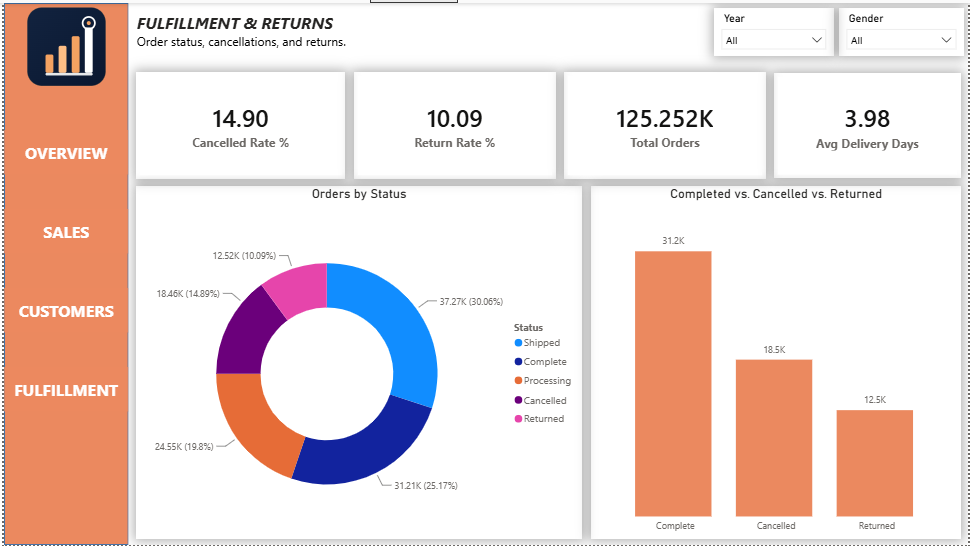
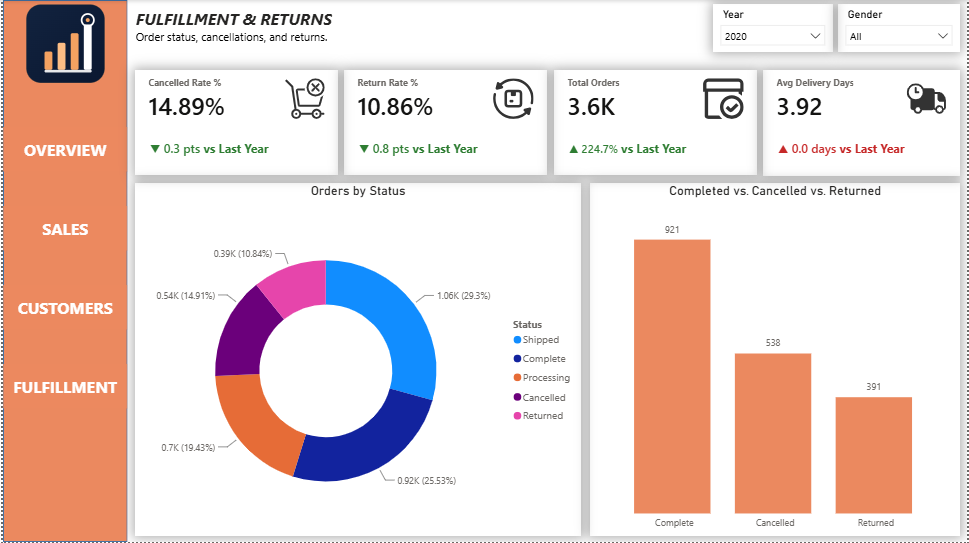
updated project

diff --git a/02_thelook_ecommerce_sql_powerbi/README.md b/02_thelook_ecommerce_sql_powerbi/README.md
@@ -3,6 +3,7 @@
 A four-page Power BI dashboard and SQL analysis built on Google BigQuery's public `thelook_ecommerce` dataset (125K+ orders, 100K+ users), answering key business questions on revenue, profitability, fulfillment, and customer behavior.
 
 [View on Google Drive](https://drive.google.com/drive/folders/1uaCvZnnfB8ZIu-9xPcC3c7-zOqqk12zW?usp=sharing)
+
 ---
 
 ## Project Overview
@@ -10,7 +11,7 @@ A four-page Power BI dashboard and SQL analysis built on Google BigQuery's publi
 TheLook Ecommerce is a synthetic but realistic e-commerce dataset maintained by Google, covering orders, order line items, products, and users across a global customer base. This project explores the dataset in two stages:
 
 1. **SQL exploration & business-question analysis** directly in BigQuery
-2. **A four-page Power BI dashboard** (Overview, Sales & Product Performance, Customer & Demographics, Fulfillment & Returns) built on top of the same data, with a star-schema model and 12 DAX measures
+2. **A four-page Power BI dashboard** (Overview, Sales & Product Performance, Customer & Demographics, Fulfillment & Returns) built on top of the same data, with a star-schema model and 48 DAX measures — 12 core KPIs plus 36 supporting year-over-year trend measures (reference labels on every KPI card)
 
 ---
 
@@ -89,7 +90,11 @@ users (1) ──< orders (1) ──< order_items (*) >── (1) products
 
 ## DAX Measures
 
-12 measures organized into 3 display folders under `_Measures`.
+48 measures organized into 4 display folders under `_Measures`: **Sales**, **Fulfillment**, **Customers**, and **Trend** (year-over-year comparison measures powering the reference labels on every KPI card).
+
+All rate-based measures (`Cancelled Rate %`, `Return Rate %`, `Profit Margin %`, `Repeat Purchase Rate`) return raw 0–1 decimals and use Power BI's built-in **Percentage** number format rather than a manual `* 100` — kept consistent across the model so no measure mixes both conventions.
+
+Year filtering throughout the Trend folder uses Power BI's built-in date hierarchy (`orders[created_at].[Year]`) rather than a separate calculated Year column, since the report's Year slicer is already built on that same hierarchy.
 
 ### 📁 Sales
 ```dax
@@ -105,14 +110,14 @@ Profit Margin % =
 DIVIDE(
     [Total Revenue] - SUMX(order_items, RELATED(products[cost])),
     [Total Revenue]
-) * 100
+)
 ```
 
 ### 📁 Fulfillment
 ```dax
-Cancelled Rate % = DIVIDE(COUNTROWS(FILTER(orders, orders[status] = "Cancelled")), [Total Orders]) * 100
+Cancelled Rate % = DIVIDE(COUNTROWS(FILTER(orders, orders[status] = "Cancelled")), [Total Orders])
 
-Return Rate % = DIVIDE(COUNTROWS(FILTER(orders, orders[status] = "Returned")), [Total Orders]) * 100
+Return Rate % = DIVIDE(COUNTROWS(FILTER(orders, orders[status] = "Returned")), [Total Orders])
 
 Delivered Orders = CALCULATE([Total Orders], NOT ISBLANK(orders[delivered_at]))
 
@@ -138,7 +143,155 @@ COUNTROWS(
 Repeat Purchase Rate = DIVIDE([Repeat Customers], [Total Customers])
 ```
 
-![Measures Folders](images/measures.png)
+### 📁 Trend
+Each KPI has three supporting measures: a **prior-year value**, a **label** (arrow + change, shown via each card's Reference label), and a **color** (drives conditional font color on that label — green when the metric moved in a good direction, red when it didn't). Count/currency-based KPIs show relative % change; rate-based KPIs (already a %) show the change in percentage points instead.
+
+```dax
+-- Total Revenue
+Total Revenue PY = 
+VAR CurrentYear = MAX(orders[created_at].[Year])
+RETURN CALCULATE([Total Revenue], REMOVEFILTERS(orders[created_at].[Year]), orders[created_at].[Year] = CurrentYear - 1)
+
+Revenue YoY Label = 
+VAR Change = DIVIDE([Total Revenue] - [Total Revenue PY], [Total Revenue PY])
+RETURN IF(Change >= 0, "▲ " & FORMAT(Change, "0.0%"), "▼ " & FORMAT(ABS(Change), "0.0%"))
+
+Revenue YoY Color = IF([Total Revenue] >= [Total Revenue PY], "#2E7D32", "#C62828")
+
+
+-- Total Orders
+Total Orders PY = 
+VAR CurrentYear = MAX(orders[created_at].[Year])
+RETURN CALCULATE([Total Orders], REMOVEFILTERS(orders[created_at].[Year]), orders[created_at].[Year] = CurrentYear - 1)
+
+Orders YoY Label = 
+VAR Change = DIVIDE([Total Orders] - [Total Orders PY], [Total Orders PY])
+RETURN IF(Change >= 0, "▲ " & FORMAT(Change, "0.0%"), "▼ " & FORMAT(ABS(Change), "0.0%"))
+
+Orders YoY Color = IF([Total Orders] >= [Total Orders PY], "#2E7D32", "#C62828")
+
+
+-- Avg Order Value
+Avg Order Value PY = 
+VAR CurrentYear = MAX(orders[created_at].[Year])
+RETURN CALCULATE([Avg Order Value], REMOVEFILTERS(orders[created_at].[Year]), orders[created_at].[Year] = CurrentYear - 1)
+
+AOV YoY Label = 
+VAR Change = DIVIDE([Avg Order Value] - [Avg Order Value PY], [Avg Order Value PY])
+RETURN IF(Change >= 0, "▲ " & FORMAT(Change, "0.0%"), "▼ " & FORMAT(ABS(Change), "0.0%"))
+
+AOV YoY Color = IF([Avg Order Value] >= [Avg Order Value PY], "#2E7D32", "#C62828")
+
+
+-- Total Items Sold
+Total Items Sold PY = 
+VAR CurrentYear = MAX(orders[created_at].[Year])
+RETURN CALCULATE([Total Items Sold], REMOVEFILTERS(orders[created_at].[Year]), orders[created_at].[Year] = CurrentYear - 1)
+
+Items Sold YoY Label = 
+VAR Change = DIVIDE([Total Items Sold] - [Total Items Sold PY], [Total Items Sold PY])
+RETURN IF(Change >= 0, "▲ " & FORMAT(Change, "0.0%"), "▼ " & FORMAT(ABS(Change), "0.0%"))
+
+Items Sold YoY Color = IF([Total Items Sold] >= [Total Items Sold PY], "#2E7D32", "#C62828")
+
+
+-- Profit Margin %
+Profit Margin PY = 
+VAR CurrentYear = MAX(orders[created_at].[Year])
+RETURN CALCULATE([Profit Margin %], REMOVEFILTERS(orders[created_at].[Year]), orders[created_at].[Year] = CurrentYear - 1)
+
+Margin YoY Label = 
+VAR Change = [Profit Margin %] - [Profit Margin PY]
+RETURN IF(Change >= 0, "▲ " & FORMAT(Change * 100, "0.0") & " pts", "▼ " & FORMAT(ABS(Change) * 100, "0.0") & " pts")
+
+Margin YoY Color = IF([Profit Margin %] >= [Profit Margin PY], "#2E7D32", "#C62828")
+
+
+-- Cancelled Rate %  (lower is better)
+Cancelled Rate PY = 
+VAR CurrentYear = MAX(orders[created_at].[Year])
+RETURN CALCULATE([Cancelled Rate %], REMOVEFILTERS(orders[created_at].[Year]), orders[created_at].[Year] = CurrentYear - 1)
+
+Cancelled YoY Label = 
+VAR Change = [Cancelled Rate %] - [Cancelled Rate PY]
+RETURN IF(Change <= 0, "▼ " & FORMAT(ABS(Change) * 100, "0.0") & " pts", "▲ " & FORMAT(Change * 100, "0.0") & " pts")
+
+Cancelled YoY Color = IF([Cancelled Rate %] <= [Cancelled Rate PY], "#2E7D32", "#C62828")
+
+
+-- Return Rate %  (lower is better)
+Return Rate PY = 
+VAR CurrentYear = MAX(orders[created_at].[Year])
+RETURN CALCULATE([Return Rate %], REMOVEFILTERS(orders[created_at].[Year]), orders[created_at].[Year] = CurrentYear - 1)
+
+Return YoY Label = 
+VAR Change = [Return Rate %] - [Return Rate PY]
+RETURN IF(Change <= 0, "▼ " & FORMAT(ABS(Change) * 100, "0.0") & " pts", "▲ " & FORMAT(Change * 100, "0.0") & " pts")
+
+Return YoY Color = IF([Return Rate %] <= [Return Rate PY], "#2E7D32", "#C62828")
+
+
+-- Delivered Orders
+Delivered Orders PY = 
+VAR CurrentYear = MAX(orders[created_at].[Year])
+RETURN CALCULATE([Delivered Orders], REMOVEFILTERS(orders[created_at].[Year]), orders[created_at].[Year] = CurrentYear - 1)
+
+Delivered YoY Label = 
+VAR Change = DIVIDE([Delivered Orders] - [Delivered Orders PY], [Delivered Orders PY])
+RETURN IF(Change >= 0, "▲ " & FORMAT(Change, "0.0%"), "▼ " & FORMAT(ABS(Change), "0.0%"))
+
+Delivered YoY Color = IF([Delivered Orders] >= [Delivered Orders PY], "#2E7D32", "#C62828")
+
+
+-- Avg Delivery Days  (lower is better)
+Avg Delivery Days PY = 
+VAR CurrentYear = MAX(orders[created_at].[Year])
+RETURN CALCULATE([Avg Delivery Days], REMOVEFILTERS(orders[created_at].[Year]), orders[created_at].[Year] = CurrentYear - 1)
+
+Delivery Days YoY Label = 
+VAR Change = [Avg Delivery Days] - [Avg Delivery Days PY]
+RETURN IF(Change <= 0, "▼ " & FORMAT(ABS(Change), "0.0") & " days", "▲ " & FORMAT(Change, "0.0") & " days")
+
+Delivery Days YoY Color = IF([Avg Delivery Days] <= [Avg Delivery Days PY], "#2E7D32", "#C62828")
+
+
+-- Total Customers
+Total Customers PY = 
+VAR CurrentYear = MAX(orders[created_at].[Year])
+RETURN CALCULATE([Total Customers], REMOVEFILTERS(orders[created_at].[Year]), orders[created_at].[Year] = CurrentYear - 1)
+
+Customers YoY Label = 
+VAR Change = DIVIDE([Total Customers] - [Total Customers PY], [Total Customers PY])
+RETURN IF(Change >= 0, "▲ " & FORMAT(Change, "0.0%"), "▼ " & FORMAT(ABS(Change), "0.0%"))
+
+Customers YoY Color = IF([Total Customers] >= [Total Customers PY], "#2E7D32", "#C62828")
+
+
+-- Repeat Customers
+Repeat Customers PY = 
+VAR CurrentYear = MAX(orders[created_at].[Year])
+RETURN CALCULATE([Repeat Customers], REMOVEFILTERS(orders[created_at].[Year]), orders[created_at].[Year] = CurrentYear - 1)
+
+Repeat Cust YoY Label = 
+VAR Change = DIVIDE([Repeat Customers] - [Repeat Customers PY], [Repeat Customers PY])
+RETURN IF(Change >= 0, "▲ " & FORMAT(Change, "0.0%"), "▼ " & FORMAT(ABS(Change), "0.0%"))
+
+Repeat Cust YoY Color = IF([Repeat Customers] >= [Repeat Customers PY], "#2E7D32", "#C62828")
+
+
+-- Repeat Purchase Rate
+Repeat Purchase Rate PY = 
+VAR CurrentYear = MAX(orders[created_at].[Year])
+RETURN CALCULATE([Repeat Purchase Rate], REMOVEFILTERS(orders[created_at].[Year]), orders[created_at].[Year] = CurrentYear - 1)
+
+Repeat Rate YoY Label = 
+VAR Change = [Repeat Purchase Rate] - [Repeat Purchase Rate PY]
+RETURN IF(Change >= 0, "▲ " & FORMAT(Change * 100, "0.0") & " pts", "▼ " & FORMAT(ABS(Change) * 100, "0.0") & " pts")
+
+Repeat Rate YoY Color = IF([Repeat Purchase Rate] >= [Repeat Purchase Rate PY], "#2E7D32", "#C62828")
+```
+
+**Applying a reference label to a card:** select the card → Format visual → Reference label → On → drag the `...YoY Label` measure into the field well → click the Fx next to the label's font color → Format by: Field value → select the matching `...YoY Color` measure. The "vs last year" caption text is added separately via the card's **Show blank as** field (with a leading space) rather than inside the DAX, so the label measures stay reusable as pure number + arrow.
 
 ---
 
@@ -146,25 +299,25 @@ Repeat Purchase Rate = DIVIDE([Repeat Customers], [Total Customers])
 
 ### 1. Overview
 *Business performance across sales, fulfillment, and customers.*
-- **KPIs:** Total Revenue, Total Orders, Profit Margin %, Cancelled Rate %, Return Rate %
+- **KPIs:** Total Revenue, Total Orders, Profit Margin %, Cancelled Rate %, Return Rate % — each with a YoY reference label
 - **Charts:** Monthly Revenue Trend (line), Revenue by Channel (bar), Revenue by Category (treemap)
 - **Slicers:** Year, Gender
 
 ### 2. Sales & Product Performance
 *Revenue performance and top-selling products and categories.*
-- **KPIs:** Total Revenue, Total Orders, Total Items Sold, Average Order Value
+- **KPIs:** Total Revenue, Total Orders, Total Items Sold, Average Order Value — each with a YoY reference label
 - **Charts:** Monthly Revenue Trend (line), Revenue by Category (bar), Most Profitable Categories (treemap)
 - **Slicers:** Year, Gender
 
 ### 3. Customer & Demographics
 *Understand who's buying and where revenue is coming from.*
-- **KPIs:** Total Customers, Total Revenue, Avg Order Value, Repeat Purchase Rate
+- **KPIs:** Total Customers, Total Revenue, Avg Order Value, Repeat Purchase Rate — each with a YoY reference label
 - **Charts:** Top 5 Countries by Revenue (bar), Revenue by Age Group (bar), Revenue by Channel (bar), Revenue by Gender (donut)
 - **Slicers:** Year, Gender
 
 ### 4. Fulfillment & Returns
 *Order status, cancellations, and returns.*
-- **KPIs:** Cancelled Rate %, Return Rate %, Total Orders, Avg Delivery Days
+- **KPIs:** Cancelled Rate %, Return Rate %, Total Orders, Avg Delivery Days — each with a YoY reference label
 - **Charts:** Orders by Status (donut), Completed vs. Cancelled vs. Returned (bar)
 - **Slicers:** Year, Gender
 
@@ -180,8 +333,12 @@ Repeat Purchase Rate = DIVIDE([Repeat Customers], [Total Customers])
 | Issue | Cause | Fix |
 |---|---|---|
 | `Total Orders` slightly overstated cancellation/return rates | Originally written as `DISTINCTCOUNT(order_items[order_id])`, a different grain than `orders[status]`, which the rate measures filter on | Rewrote as `DISTINCTCOUNT(orders[order_id])` to match the grain of the status field |
-| Year slicer relied on Power BI's automatic date hierarchy | `orders[created_at]` is a raw datetime column (125K+ distinct values) — no explicit Year field existed | Added a calculated `Year = YEAR(orders[created_at])` column for consistent slicer behavior across all four pages |
+| Year filtering needed a consistent field across 48 measures | No separate calculated Year column existed on `orders` — only the raw `created_at` datetime | Standardized every Trend measure and the report's Year slicer on Power BI's built-in date hierarchy (`orders[created_at].[Year]`) instead of mixing a manual column with the hierarchy |
 | `city = 'null'` values in `users` | Stored as literal text `'null'` rather than a true null, for <1% of users concentrated in a few countries | Kept analysis at country level instead of city level — not material enough to warrant a Power Query fix |
+| Reference labels showed "0.0 pts" even when the color correctly flipped red/green | Rate measures (`Cancelled Rate %`, `Return Rate %`, `Profit Margin %`, `Repeat Purchase Rate`) were changed from a baked-in `* 100` to raw 0–1 decimals with Percentage formatting, but their `...YoY Label` measures still formatted the raw point-difference at one decimal place, rounding tiny decimal swings to zero | Multiplied the point difference by 100 inside each affected label's `FORMAT()` call, so the label scales correctly independent of how the base measure is formatted |
+| Reference label text showed "vs last year vs last year" duplicated | The card's "Show blank as" field and the DAX label measure both independently included the caption text | Removed the caption from the DAX (label measures now return only the arrow + number) and kept it solely in the card's Show blank as field |
+| Card text re-centered instead of staying left-aligned after enabling Reference label | The Reference label section has its own independent Alignment property, defaulting to Center rather than inheriting the card's existing layout | Manually set Alignment to Left on the Callout value, Category label, and Reference label sections individually |
+| Format Painter left KPI cards visually "matching" but different sizes | Format Painter copies font/color/border styling but not visual Height/Width | Matched exact pixel Height/Width across cards manually via Format visual → General → Properties → Size, rather than relying on Format Painter or drag-resizing |
 
 ---
 
@@ -190,4 +347,3 @@ Repeat Purchase Rate = DIVIDE([Repeat Customers], [Total Customers])
 - **Google BigQuery** — SQL exploration and business-question analysis
 - **Power BI Desktop** — data modeling, DAX, dashboard design
 - **Power Query** — data type fixes, load configuration
-
